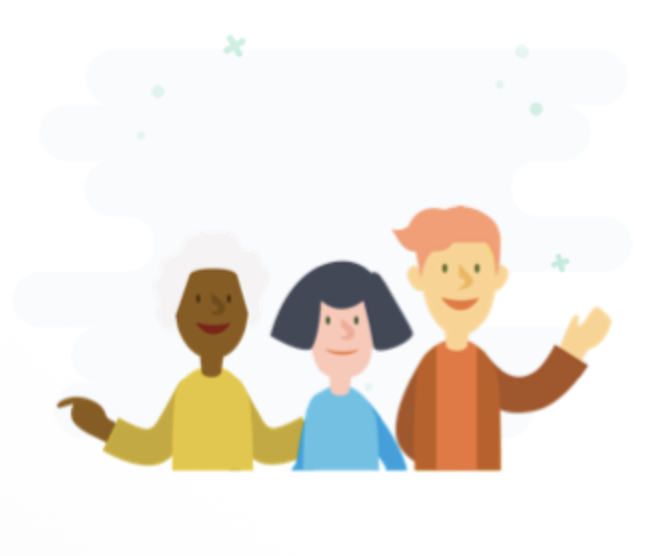
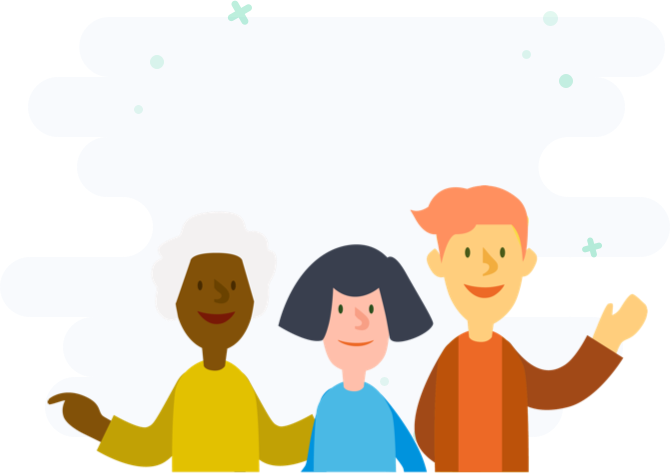
Replaced current image with a better resolution one

diff --git a/js/components/developer/welcome-info-screen/index.js b/js/components/developer/welcome-info-screen/index.js
@@ -5,7 +5,7 @@ import styles from './style';
 import globalStyle from '../../common/globalStyle';
 import I18n from '../../../i18n';
 
-const PICTURE = require('../../../../assets/images/picture.png');
+const PICTURE = require('../../../../assets/images/people.png');
 
 export default class WelcomeInfoScreen extends Component {
 
@@ -31,7 +31,7 @@ export default class WelcomeInfoScreen extends Component {
           </View>
           <View style={styles.buttonContainer}>
             <Button style={StyleSheet.flatten(styles.button)} rounded primary>
-              <NBText>{I18n.t('button_actions.skip')}</NBText>
+              <NBText>{I18n.t('button_actions.next')}</NBText>
             </Button>
           </View>
           <View style={styles.buttonContainer2}>

diff --git a/js/components/developer/welcome-info-screen/style.js b/js/components/developer/welcome-info-screen/style.js
@@ -18,14 +18,14 @@ const styles = StyleSheet.create({
   },
 
   picture: {
-    width: 250,
+    width: 350,
     height: 250,
     alignItems: 'center',
     margin: PADDING * 2,
   },
 
   title: {
-    paddingTop: PADDING,
+    paddingTop: 4,
     fontSize: 20,
     fontWeight: 'bold',
     textAlign: 'center',
